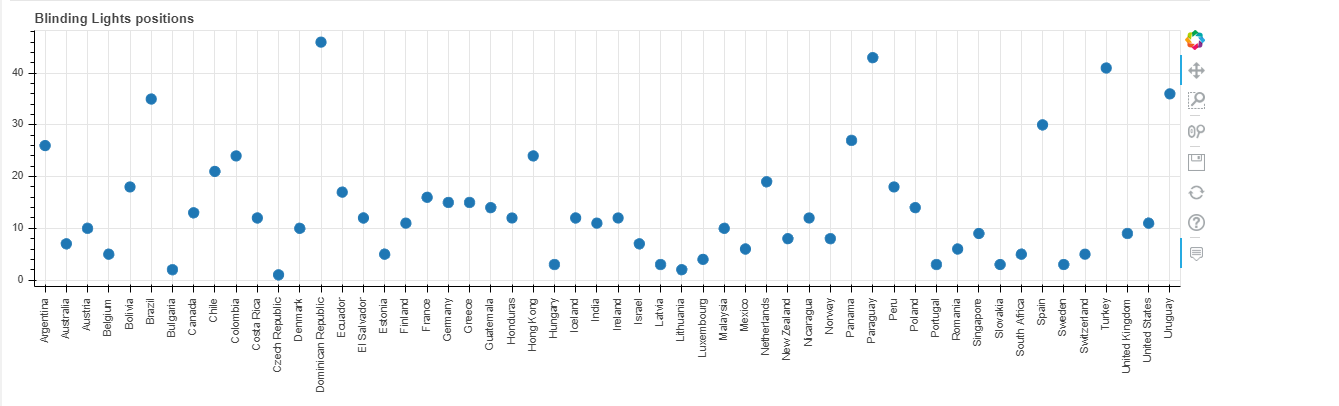
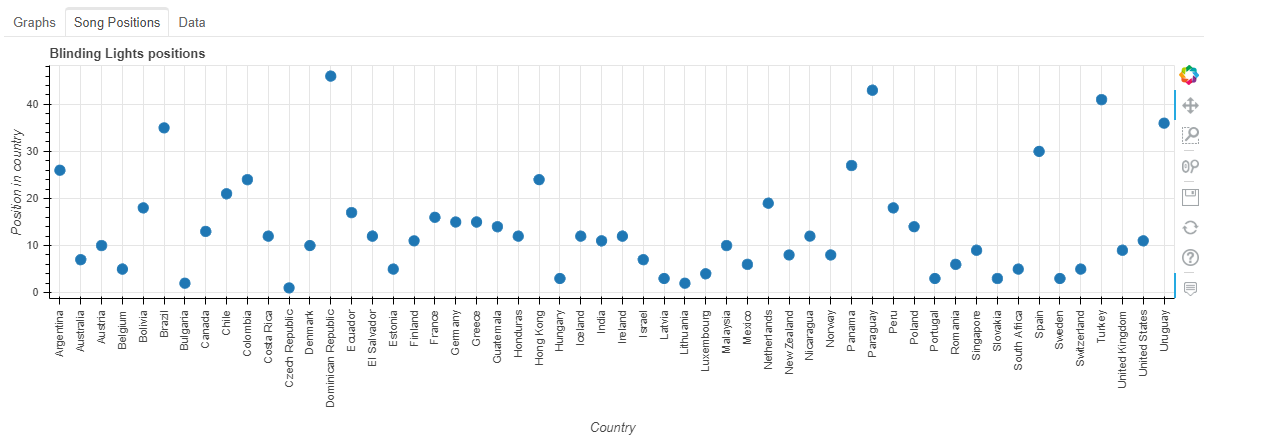
Updated README and graphs screenshots now have legend

diff --git a/README.md b/README.md
@@ -7,22 +7,37 @@
 ## License:
 GNU General Public License version 3
 
+
+# Introduction
+
+This project will atempt to give an analisis of songs from Spotify using a  library that implements the [Spotify API](https://developer.spotify.com/documentation/web-api/) into python called [Spotipy](https://github.com/plamere/spotipy). The objective is to know which are the most listened songs in spotify by using the "TOP 50" playlist of every country that spotify generates.
+
+
 # Instructions
 1. First, you need to install the following libraries:
     * [Spoitpy library](https://github.com/plamere/spotipy)
 
+        An implementation of the spotify API into python.
+
         You can do this by simply running `pip install spotipy`
+
     * [Bokeh](https://docs.bokeh.org/en/latest/docs/installation.html)
         
+        A library made for data visualization with more tools and flexibility than matplotlib. We use it for generating the gaphs, it's interactivity and exporting them to html.
+
         Again, you can do it with `pip install bokeh`
 
     * [Pandas](https://pandas.pydata.org/pandas-docs/stable/getting_started/install.html)
+
+        A library made for data processing, analysis and manipulation. We used it to process the data gathered from spotify to get the stats and the data for the graphs.
 
         Like the ones above, it can be installed with `pip install pandas`
 
     * [MySQL Connector](https://dev.mysql.com/doc/connector-python/en/connector-python-installation.html)
 
-    For all this libraries, we recommend to follow the instructions provided and to check the libraries you have installed. To do this, you can do it with `pip list` or `python -m pip list` 
+        As the name suggest, this library is a way to connect a MySQL database with python. We used it to automate the storing of data to the SQL database.
+
+    For all this libraries, we recommend to follow the instructions provided and to check the libraries you have installed. To do this, type  `pip list` or `python -m pip list` in the terminal.
 
 2. Then, you need to get the credentials for your spotify account
 
@@ -84,14 +99,14 @@ GNU General Public License version 3
 
 These screenshots represent a part of the graphs that are generated. Due to the size of the second graph, we will only show one example.
 
+## This graph represents the songs and the amount of times it has appeared in the playlist 
 ![Graph1](resources/Grafica1.png)
 
+## The second graph, represents the song positions in the countries playlist
 ![Graph2](resources/Grafica2.png)
 
+## This is the data qe used represeted in tables.
 ![Graph3](resources/Grafica3.png)
-# Objective:
-
-This project will atempt to give an analisis of songs from Spotify using a  library that implements the [Spotify API](https://developer.spotify.com/documentation/web-api/) into python called [Spotipy](https://github.com/plamere/spotipy). 
 
 # Resources:
 ## Data stream:
@@ -99,9 +114,10 @@ This project will atempt to give an analisis of songs from Spotify using a  libr
 ## Data processing:
 - Python
 - Pandas
+
+## Visualization:
 - Bokeh
 
 ## Data storage:
 - json files
 - MySQL
-
